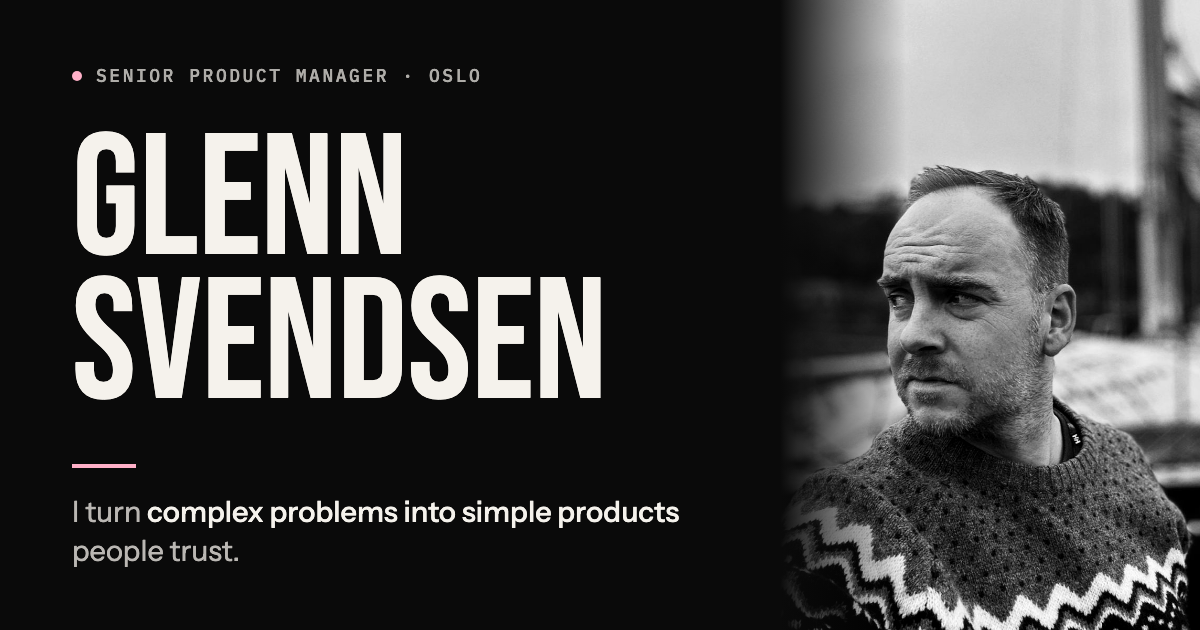
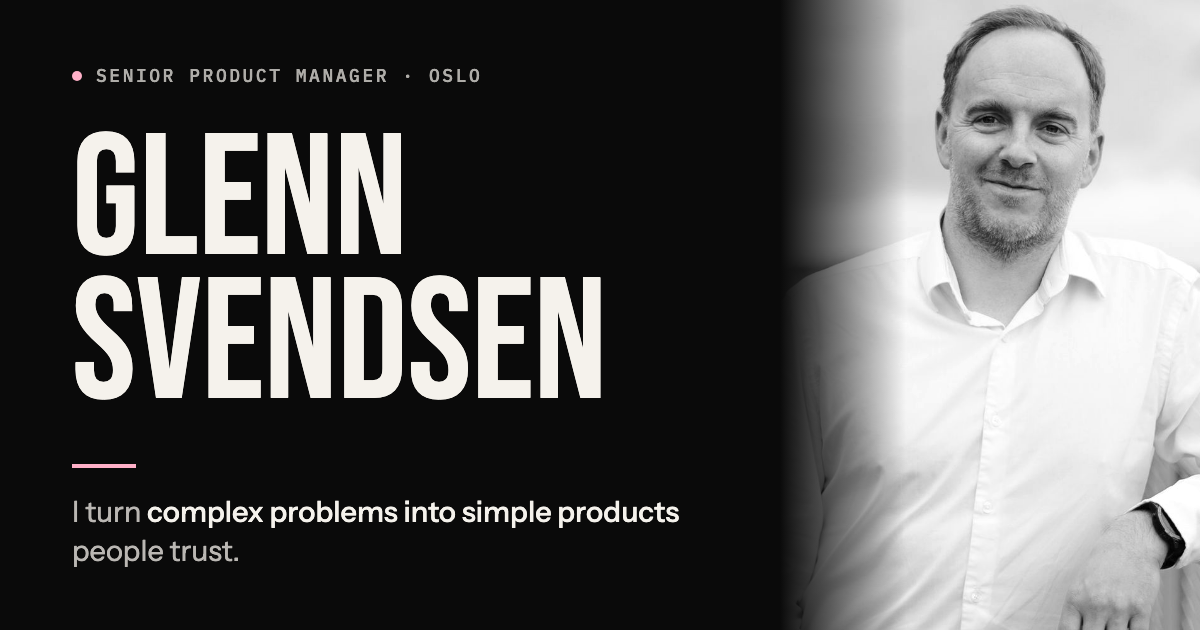
New portrait; reduce dark/light section switching
Portrait: replace the outdoor harbor photo (looking away, stern) with
a warmer one - direct eye contact, slight smile, same editorial B&W
treatment. Regenerated the LinkedIn preview image to match.

Design: cut full-page background flips from 8 down to 2. Only Hero
and Testimonials/Contact stay dark now (deliberate bookends); Skills,
Background Validation and Self-Service Discovery move to the light
surface along with everything else in between. All visuals were
already token-driven so they adapt automatically; the two "app"
demo frames keep their fixed dark skin, as intended, since they're
meant to read as product screenshots regardless of page background.

Also: reword one testimonial's "product owner" to "product manager"
per Glenn's preference.

Changed region(s): [[0.6475, 0.0, 1.0, 1.0]]

diff --git a/index.html b/index.html
@@ -96,7 +96,7 @@
       <div class="section-label eyebrow reveal"><span class="section-num">01</span><span>About</span></div>
       <div class="about-grid">
         <div class="about-photo-wrap reveal">
-          <img src="profile.jpg" alt="Portrait of Glenn Svendsen" class="about-photo" width="900" height="1200" loading="lazy">
+          <img src="profile.jpg" alt="Portrait of Glenn Svendsen" class="about-photo" width="1000" height="1000" loading="lazy">
           <svg class="pipe-svg" viewBox="0 0 100 100" xmlns="http://www.w3.org/2000/svg" aria-hidden="true">
             <path class="pp-body" d="M 62 68 C 61 77, 61 84, 62 89 C 68 92, 80 92, 86 89 C 87 84, 87 77, 86 68" fill="rgba(255,176,200,0.1)" stroke="#FFB0C8" stroke-width="2.4" stroke-linecap="round" stroke-linejoin="round"/>
             <path class="pp-rim" d="M 62 68 C 67 65, 81 65, 86 68 C 81 71, 67 71, 62 68" fill="rgba(10,10,10,0.15)" stroke="#FFB0C8" stroke-width="2.1" stroke-linecap="round"/>
@@ -142,7 +142,7 @@
   </section>
 
   <!-- ── WHAT I DO ────────────────────────── -->
-  <section id="skills" class="section surface-dark" data-surface="dark">
+  <section id="skills" class="section surface-light" data-surface="light">
     <div class="wrap">
       <div class="section-label eyebrow reveal"><span class="section-num">02</span><span>What I do</span></div>
       <h2 class="display section-title reveal">How I work.</h2>
@@ -211,7 +211,7 @@
     </div>
 
     <!-- Case 01 — Background Validation -->
-    <article id="case-validation" class="case surface-dark" data-surface="dark">
+    <article id="case-validation" class="case surface-light" data-surface="light">
       <div class="wrap">
         <div class="case-bar eyebrow reveal">
           <span class="case-company">Arrive (former EasyPark Group)</span>
@@ -472,7 +472,7 @@
     </article>
 
     <!-- Case 03 — Self-Service Discovery -->
-    <article id="case-self-service" class="case surface-dark" data-surface="dark">
+    <article id="case-self-service" class="case surface-light" data-surface="light">
       <div class="wrap">
         <div class="case-bar eyebrow reveal">
           <span class="case-company">Arrive (former EasyPark Group)</span>
@@ -979,7 +979,7 @@
       <p class="eyebrow testimonials-label reveal">What people say</p>
       <div class="testimonial-grid">
         <blockquote class="testimonial reveal">
-          <p>You're a crucial link between business and development. What we, as developers, need in the long term is a stable, calm and determined product owner &mdash; someone with a strong sense of ownership who knows the product inside out.</p>
+          <p>You're a crucial link between business and development. What we, as developers, need in the long term is a stable, calm and determined product manager &mdash; someone with a strong sense of ownership who knows the product inside out.</p>
           <footer>Fullstack Engineer, former team</footer>
         </blockquote>
         <blockquote class="testimonial reveal" style="transition-delay:0.06s">
